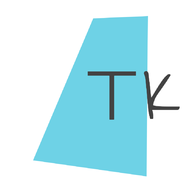
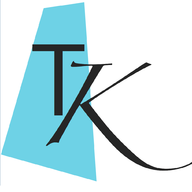
better images

diff --git a/_includes/head.html b/_includes/head.html
@@ -58,6 +58,7 @@
   <!-- Icons -->
   <link rel="apple-touch-icon-precomposed" sizes="180x180" href="{{ site.baseurl }}/public/apple-icon.png"/>
   <link rel="icon" type="image/png" sizes="96x96" href="{{ site.baseurl }}/public/favicon-96x96.png" />
+  <link rel="icon" type="image/png" sizes="32x32" href="{{ site.baseurl }}/public/favicon-32x32.png" />
   <link rel="shortcut icon" href="{{ site.baseurl }}/public/favicon.ico"/>
 
   <!-- RSS -->
